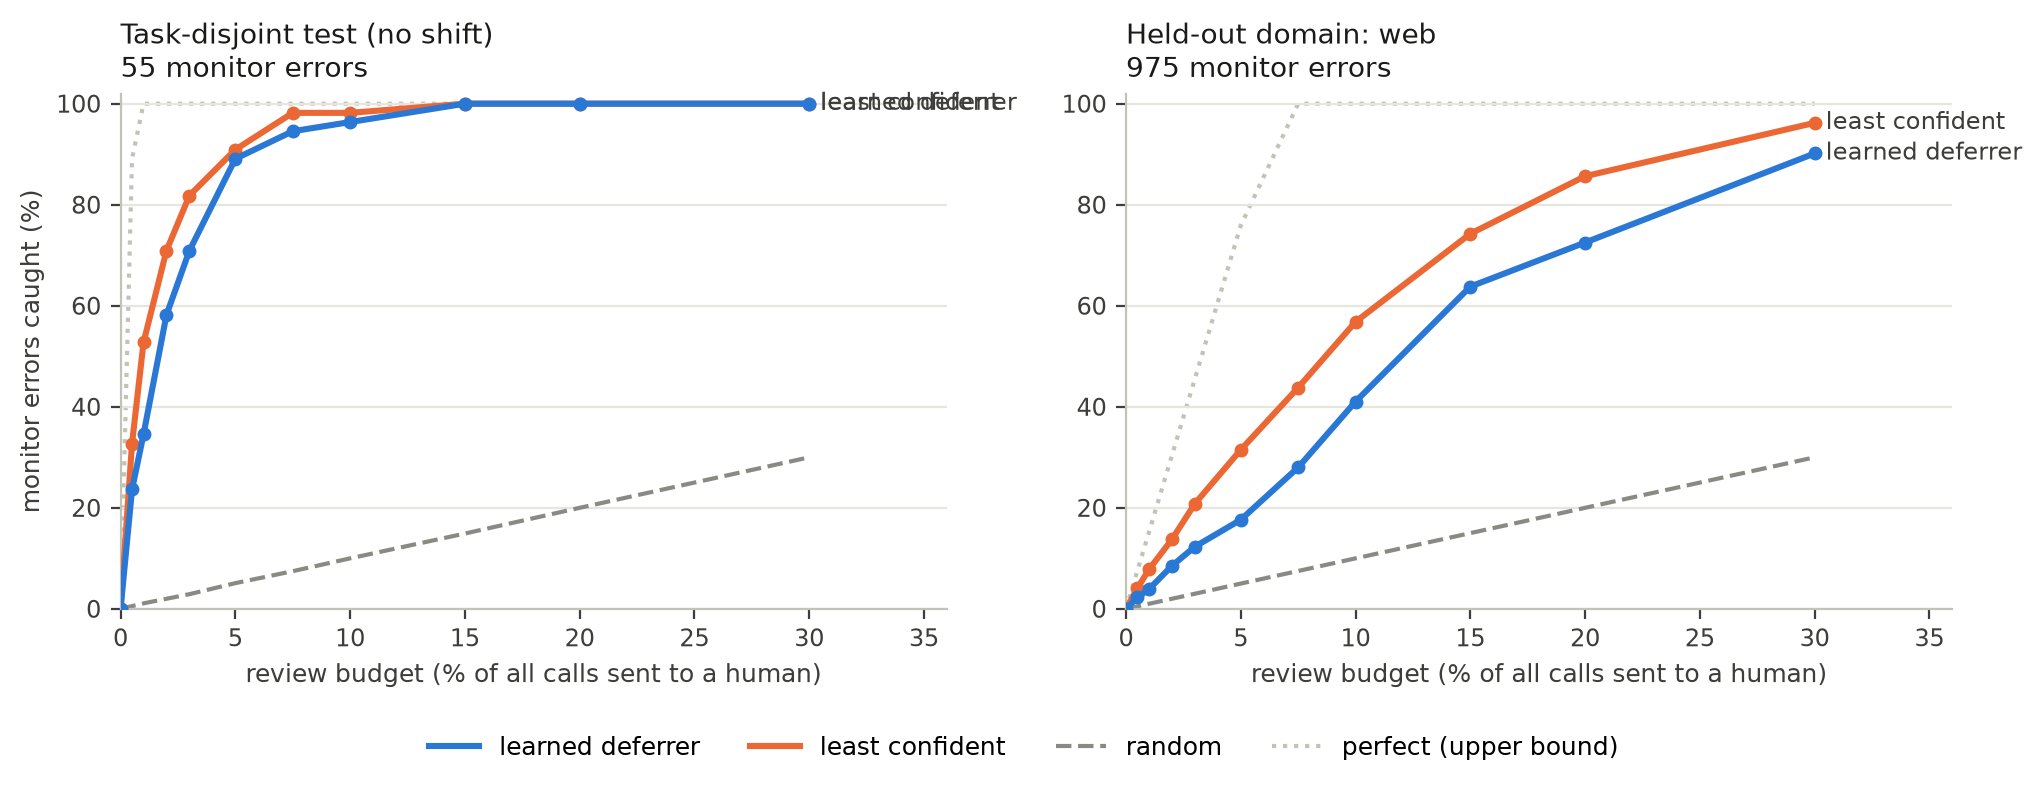
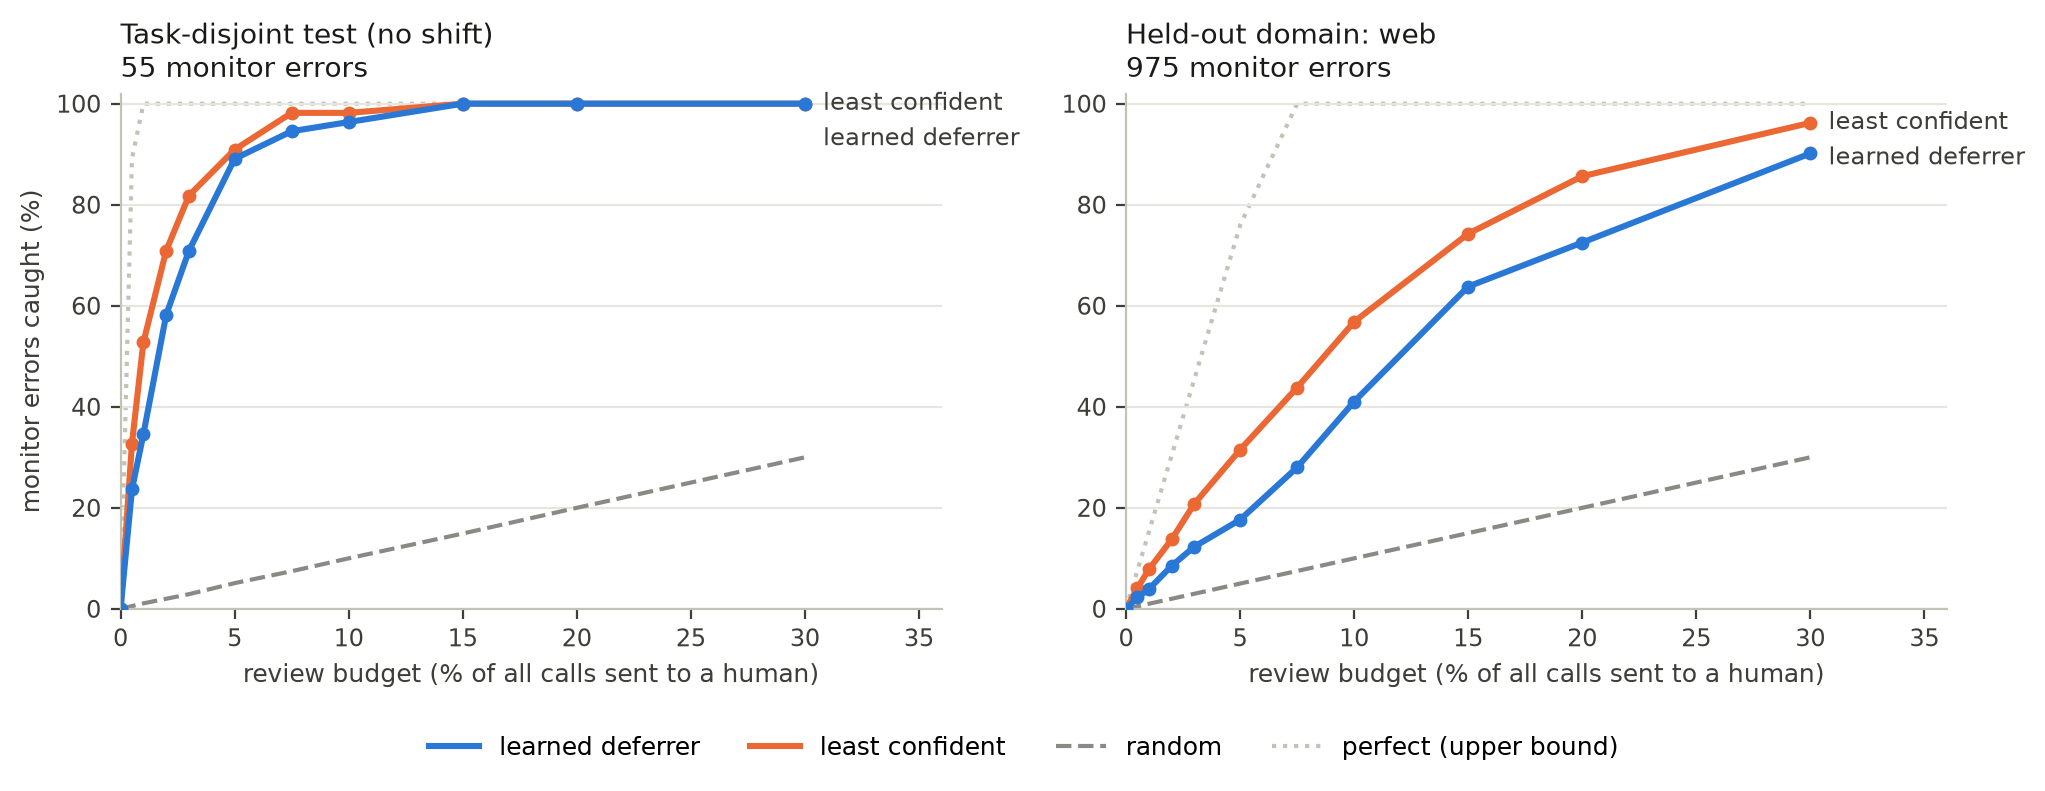
Edited results plot 06

diff --git a/l2e/deferrer.py b/l2e/deferrer.py
@@ -22,6 +22,7 @@ The reviewer is assumed perfect, so "caught" means the error is fixed (an upper 
 
 Run:  python -m l2e.deferrer                                   (task-disjoint + leave-out-web)
       python -m l2e.deferrer --splits taskdisjoint lodo_banking lodo_coding lodo_email lodo_medical lodo_web
+      python -m l2e.deferrer --plot-only                      (redraw the figure from the saved report)
 Out:  models/deferrer/<monitor>_<split>.txt (LightGBM), .trees.json (the same trees for l2e/trees.py, which the app
       and the board use: no LightGBM next to PyTorch), .json (features, app threshold, parity check),
       reports/week3/01_deferrer_v1.md and .json, results/figures/06_deferral_curves.png
@@ -198,6 +199,17 @@ def write_report(results):
     return "\n".join(md)
 
 
+def label_positions(ends, gap=7.0):
+    """Direct labels at the line ends, pushed apart vertically (in % points) so they never overlap.
+    ends: {name: (x, y)} -> {name: (x, y, label_y)}; the higher line keeps its height, the rest move down."""
+    out, last = {}, None
+    for name, (x, y) in sorted(ends.items(), key=lambda kv: -kv[1][1]):
+        ly = y if last is None else min(y, last - gap)
+        out[name] = (x, y, ly)
+        last = ly
+    return out
+
+
 def plot(results, path):
     import matplotlib
     matplotlib.use("Agg")
@@ -214,13 +226,16 @@ def plot(results, path):
     for ax, split in zip(axes[0], splits):
         r = results[split]
         E = r["counts"]["errors"]
+        ends = {}
         for p in ("oracle", "random", "confidence", "learned"):
             xs = [x["budget"] * 100 for x in r["curves"][p]]
             ys = [100 * x["errors_caught"] / E for x in r["curves"][p]]
             ax.plot(xs, ys, marker="o" if p in ("learned", "confidence") else None, ms=4, **style[p])
             if p in ("learned", "confidence"):
-                ax.annotate(style[p]["label"], (xs[-1], ys[-1]), xytext=(4, 0), textcoords="offset points",
-                            va="center", fontsize=8.5, color="#3d3d3a")
+                ends[p] = (xs[-1], ys[-1])
+        for p, (x, y, ly) in label_positions(ends).items():
+            ax.annotate(style[p]["label"], (x, y), xytext=(x + 0.8, ly), textcoords="data", va="center",
+                        fontsize=8.5, color="#3d3d3a")
         ax.set_title(f"{SPLIT_NAMES.get(split, split)}\n{E} monitor errors", fontsize=10, color="#1a1a19", loc="left")
         ax.set_xlabel("review budget (% of all calls sent to a human)", fontsize=9, color="#3d3d3a")
         ax.set_ylim(0, 102)
@@ -244,8 +259,14 @@ def plot(results, path):
 def main():
     ap = argparse.ArgumentParser()
     ap.add_argument("--splits", nargs="+", default=["taskdisjoint", "lodo_web"])
+    ap.add_argument("--plot-only", action="store_true", help="redraw the figure from the saved report, no training")
     args = ap.parse_args()
     config.ensure_dirs()
+    if args.plot_only:
+        results = json.loads((config.REPORTS3 / "01_deferrer_v1.json").read_text())
+        plot(results, config.FIGURES / "06_deferral_curves.png")
+        print("redrew", config.FIGURES / "06_deferral_curves.png")
+        return
     dps = pd.read_csv(config.PROCESSED / "decision_points.csv")
     results = {}
     for split in args.splits:

diff --git a/tests/test_deferrer.py b/tests/test_deferrer.py
@@ -69,3 +69,13 @@ def test_numpy_trees_match_lightgbm_in_a_separate_process():
         pytest.skip("lightgbm not installed")
     r = subprocess.run([sys.executable, "-c", PARITY], capture_output=True, text=True, timeout=120)
     assert r.returncode == 0, r.stderr[-2000:]
+
+
+def test_line_end_labels_never_overlap():
+    from l2e.deferrer import label_positions
+    pos = label_positions({"learned": (30, 100.0), "confidence": (30, 100.0)})  # both lines end at 100%
+    assert abs(pos["learned"][2] - pos["confidence"][2]) >= 7
+    pos = label_positions({"learned": (30, 90.0), "confidence": (30, 96.0)})
+    assert pos["confidence"][2] == 96.0 and pos["learned"][2] == pytest.approx(89.0)
+    pos = label_positions({"learned": (30, 40.0), "confidence": (30, 80.0)})  # far apart: left where they are
+    assert pos["learned"][2] == 40.0 and pos["confidence"][2] == 80.0
